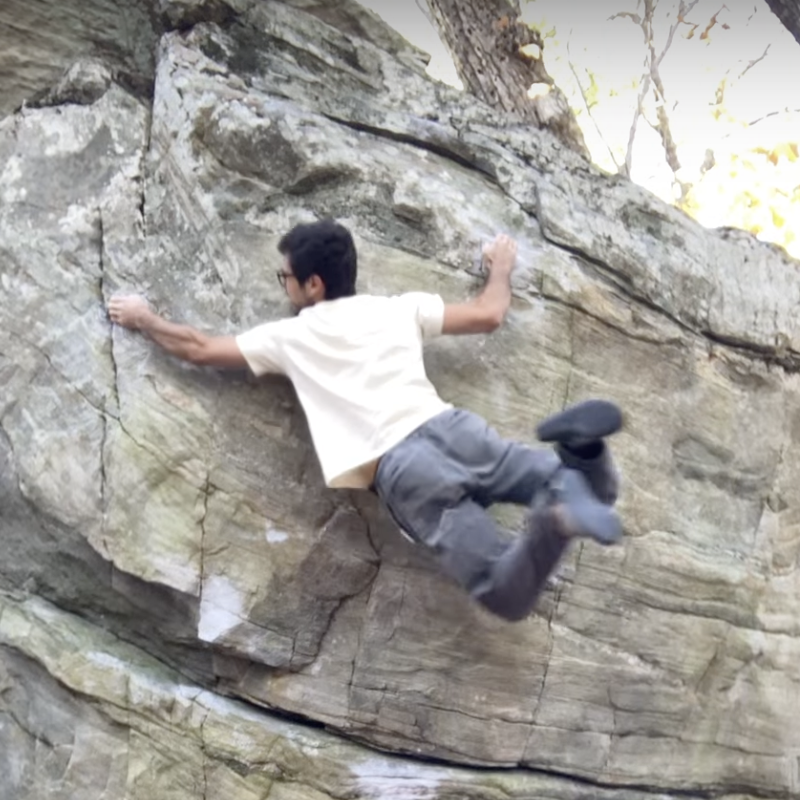
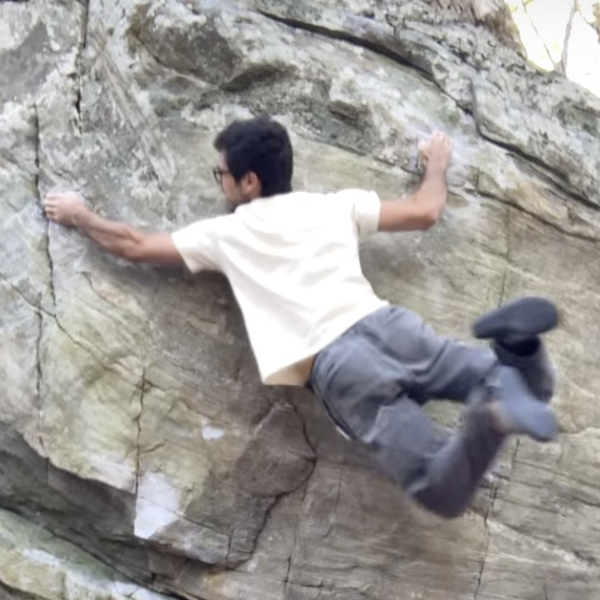
chore: tighter crop and simplify wording/design

diff --git a/style.css b/style.css
@@ -90,12 +90,7 @@ body {
 }
 
 #splash {
-  background-image: repeating-radial-gradient(
-      circle at 0 0,
-      transparent 0,
-      var(--theme-medium) 6rem
-    ),
-    repeating-linear-gradient(var(--theme-darkest), var(--theme-dark));
+  background-color: var(--theme-dark);
   color: var(--theme-lightest);
   margin-bottom: 2rem;
   padding: 8rem 0 3rem;
@@ -179,14 +174,14 @@ h3 {
   margin: 1.75rem auto -0.25rem;
   overflow: hidden;
   padding: 1rem;
-  transform: rotate(-55deg);
+  transform: rotate(-65deg);
   width: 15rem;
 
   & img {
     border: solid 0.0625rem var(--theme-dark);
     border-radius: 100%;
     height: 100%;
-    transform: rotate(55deg);
+    transform: rotate(65deg);
     width: 100%;
   }
 }

diff --git a/index.html b/index.html
@@ -54,7 +54,7 @@
     <div class="divider" id="methodology"></div>
 
     <section>
-      <h3>Methodology</h3>
+      <h3>About Me</h3>
       <div id="about-me">
         <img src="images/roman.png" />
       </div>
@@ -77,7 +77,7 @@
     <div class="divider" id="services"></div>
 
     <section>
-      <h3>Services</h3>
+      <h3>Plans</h3>
       <p><b>Complete Coaching: $200/month</b></p>
       <ul>
         <li>Weekly Coaching Calls</li>
